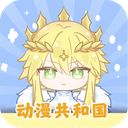
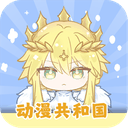
perf: 图标全面压缩 + 首屏预加载，加载速度提升约 5 倍
根因：卡片图标只显示 40px，但 sparkle.png / mobi.png 是 1024×1024。
sparkle 单个 1.5MB，占 icons/ 总量 2.3MB 的 65%，拖慢影视区与漫画区首屏。

图片压缩（tools/opt_icons.py，幂等可重跑）：
- 统一缩到 128px（40px 显示的 3 倍余量，覆盖高分屏）
- 颜色量化 256 色 + optimize，压不到 24KB 目标则降到 128/64 色
- icons/ 2280KB → 361KB，降幅 84%
- 分区首屏收益：影视区 1509KB→23KB、漫画区 1528KB→42KB、音乐区 346KB→71KB
- 已逐图目视比对压缩前后，无可见画质损失；tuanzi.png 因量化反而变大已还原

加载策略（index.html）：
- head 加 4 个首屏图标 preload，与 HTML/CSS 下载并行
- 前 6 张卡片去掉 loading=lazy，其余保持懒加载
- img 补 width/height=40 + decoding=async，消除布局抖动
- 捕获阶段监听 load/error：加载失败回退分区 emoji，不再显示破图

Changed region(s): [[0.5625, 0.5312, 0.6562, 0.625], [0.3438, 0.5312, 0.4375, 0.625], [0.8438, 0.8438, 0.875, 0.875]]

diff --git a/index.html b/index.html
@@ -24,6 +24,13 @@
 <meta property="og:image" content="https://ldgj.xyz/icons/og.png">
 <meta name="twitter:card" content="summary_large_image">
 
+<!-- 首屏图标预加载：小说专区首屏的几张卡片图，让浏览器在解析 HTML 时就并行开始下载，
+     与 HTML/CSS 的下载重叠，图标不再串行等待。数量控制在 4 张，避免抢首屏带宽。 -->
+<link rel="preload" as="image" href="icons/xiaoshuo.png">
+<link rel="preload" as="image" href="icons/fanqie.png">
+<link rel="preload" as="image" href="icons/qimao.png">
+<link rel="preload" as="image" href="icons/biquge.png">
+
 <style>
 /* ===================== 主题变量：明亮 / 暗色自动跟随系统 ===================== */
 :root{
@@ -128,6 +135,8 @@ button{font-family:inherit;cursor:pointer;border:none;background:none;color:inhe
 .tool-head{display:flex;align-items:center;gap:10px;flex-wrap:wrap;padding-right:26px}
 .tool-icon{width:40px;height:40px;border-radius:10px;flex:none;display:flex;align-items:center;justify-content:center;font-size:21px;background:var(--accent-soft)}
 .tool-img{object-fit:cover;display:block;background:#eef1f5;padding:0}
+/* 图标未加载完 / 加载失败时不让布局跳动，也不显示浏览器默认的破图图标 */
+.tool-img:not(.loaded){color:transparent;font-size:0}
 .tool-name{font-size:16px;font-weight:700;line-height:1.3}
 .tool-tag{flex:none;font-size:11px;font-weight:600;color:#d97706;background:#fef3e2;padding:2px 7px;border-radius:6px}
 /* NEW 角标：最近 7 天新增的工具，配合分区「最新在前」排序使用 */
@@ -799,11 +808,11 @@ function gotoTool(toolName){
   return true;
 }
 
-function toolCard(t, s, q = ''){
+function toolCard(t, s, q = '', hot = false){
   const tag = t.tag ? `<span class="tool-tag">${esc(t.tag)}</span>` : '';
   const newBadge = isNewTool(t) ? '<span class="tool-new">NEW</span>' : '';
   const icon = t.img
-    ? `<img class="tool-icon tool-img" src="${t.img}" alt="${esc(t.name)}" loading="lazy">`
+    ? `<img class="tool-icon tool-img" src="${t.img}" alt="${esc(t.name)}" width="40" height="40" decoding="async"${hot ? '' : ' loading="lazy"'}>`
     : `<span class="tool-icon">${t.emoji || s.icon}</span>`;
 
   /* 版本号按要求不在卡片展示，data.js 的 version 字段保留备用 */
@@ -864,8 +873,10 @@ function toolCard(t, s, q = ''){
 }
 
 function renderGrid(list, s, q = ''){
-  if (!list.length) return `<div class="no-result show"><div class="big">🔍</div>没有匹配的工具</div>`;
-  return `<div class="grid">${list.map(t => toolCard(t, s, q)).join('')}</div>`;
+  if (!list.length) return `<div class="no-result show"><div class="big">🔍</div>没有匹配的工具</div>';
+  /* 前 6 张卡片是首屏可见的，去掉 lazy 让它们立即下载；
+     屏外的仍走 lazy，避免一次性把整页图标全拉下来 */
+  return `<div class="grid">${list.map((t, i) => toolCard(t, s, q, i < 6)).join('')}</div>`;
 }
 
 function paginationHTML(totalPages, page){
@@ -1186,6 +1197,22 @@ document.getElementById('pwInput').addEventListener('keydown', e => {
 renderTabs();
 syncHeaderHeight();
 renderSection(hashSection(), 1, { scroll:false });
+
+/* 图标加载完成后打标记；加载失败则换成 emoji 占位，不留破图。
+   用捕获阶段监听 img 的 load/error —— 卡片是动态插入的，
+   冒泡阶段监听不到后续换页新增的图片。 */
+content.addEventListener('load', e => {
+  if (e.target.classList && e.target.classList.contains('tool-img')) e.target.classList.add('loaded');
+}, true);
+content.addEventListener('error', e => {
+  const img = e.target;
+  if (!img.classList || !img.classList.contains('tool-img')) return;
+  const sec = SECTIONS.find(s => s.id === currentId) || SECTIONS[0];
+  const span = document.createElement('span');
+  span.className = 'tool-icon';
+  span.textContent = sec.icon;
+  if (img.parentNode) img.parentNode.replaceChild(span, img);
+}, true);
 
 /* 头部高度随标签换行变化，同步给滚动条吸顶偏移用 */
 function syncHeaderHeight(){

diff --git a/tools/opt_icons.py b/tools/opt_icons.py
@@ -1,0 +1,96 @@
+# 图标压缩：把大尺寸 PNG 缩到卡片实际显示尺寸附近，并做颜色量化
+# 背景：卡片图标只显示 40px，但 sparkle.png / mobi.png 是 1024×1024，
+#       sparkle 单个 1.5MB，占 icons/ 总量 2.3MB 的 65%，首屏被它拖慢。
+# 用法：python tools/opt_icons.py
+# 幂等：已是最优尺寸且体积达标则跳过，中途可随时重跑。
+import os
+from PIL import Image
+
+ROOT = os.path.dirname(os.path.dirname(os.path.abspath(__file__)))
+ICON_DIR = os.path.join(ROOT, 'icons')
+
+# 卡片图标显示 40px；取 128px 留足 3 倍余量覆盖高分屏，避免大屏下发虚
+TARGET = 128
+MIN_SIZE = 160      # 小于此尺寸不动，避免反复处理已很小的图
+TARGET_BYTES = 24 * 1024   # 单图目标上限，超出则更强量化
+
+
+def human(n):
+    return '%.1fK' % (n / 1024)
+
+
+def total_dir():
+    return sum(os.path.getsize(os.path.join(ICON_DIR, f)) for f in os.listdir(ICON_DIR))
+
+
+def process(path):
+    name = os.path.basename(path)
+    orig = os.path.getsize(path)
+    try:
+        im = Image.open(path)
+    except Exception as e:
+        return name, orig, orig, '跳过(无法读取: %s)' % e
+
+    im.load()
+    w, h = im.size
+    if max(w, h) <= MIN_SIZE and orig <= TARGET_BYTES:
+        return name, orig, orig, '已最优'
+
+    # 超大图先缩到目标尺寸；小图保留原尺寸只做量化
+    if max(w, h) > TARGET:
+        scale = TARGET / float(max(w, h))
+        im = im.resize((max(1, round(w * scale)), max(1, round(h * scale))),
+                       Image.LANCZOS)
+
+    # 统一转成 RGBA 再量化：图标多为带透明通道的小图，
+    # 直接量化透明通道容易出现边缘发黑/发白，所以先把底色烘进 RGB
+    if im.mode in ('RGBA', 'LA', 'P'):
+        im = im.convert('RGBA')
+        bg = Image.new('RGB', im.size, (255, 255, 255))
+        bg.paste(im, mask=im.split()[-1])
+        im = bg
+    else:
+        im = im.convert('RGB')
+
+    # 先试 256 色，不够小再降到 128/64
+    for colors in (256, 128, 64):
+        q = im.quantize(colors=colors, method=Image.MEDIANCUT, dither=Image.FLOYDSTEINBERG)
+        tmp = path + '.tmp.png'
+        q.save(tmp, 'PNG', optimize=True)
+        new = os.path.getsize(tmp)
+        if new <= TARGET_BYTES or colors == 64:
+            os.replace(tmp, path)
+            break
+        os.remove(tmp)
+
+    return name, orig, os.path.getsize(path), '%.1f%%' % ((1 - os.path.getsize(path) / orig) * 100)
+
+
+def main():
+    before = total_dir()
+    print('压缩前：%d 个图标，共 %s' % (len(os.listdir(ICON_DIR)), human(before)))
+    print('-' * 66)
+    saved = []
+    for f in sorted(os.listdir(ICON_DIR)):
+        p = os.path.join(ICON_DIR, f)
+        if not os.path.isfile(p):
+            continue
+        name, orig, new, note = process(p)
+        flag = '' if orig == new else '  <-- 节省 %s' % human(orig - new)
+        print('%-24s %8s -> %-8s %s%s' % (name[:24], human(orig), human(new), note, flag))
+        if orig != new:
+            saved.append((name, orig - new))
+
+    after = total_dir()
+    print('-' * 66)
+    print('压缩后：共 %s，减少 %s（降幅 %.0f%%）' % (
+        human(after), human(before - after), (before - after) / float(before) * 100))
+    saved.sort(key=lambda x: -x[1])
+    if saved:
+        print('收益前五：')
+        for n, d in saved[:5]:
+            print('  %-22s 省 %s' % (n[:22], human(d)))
+
+
+if __name__ == '__main__':
+    main()
